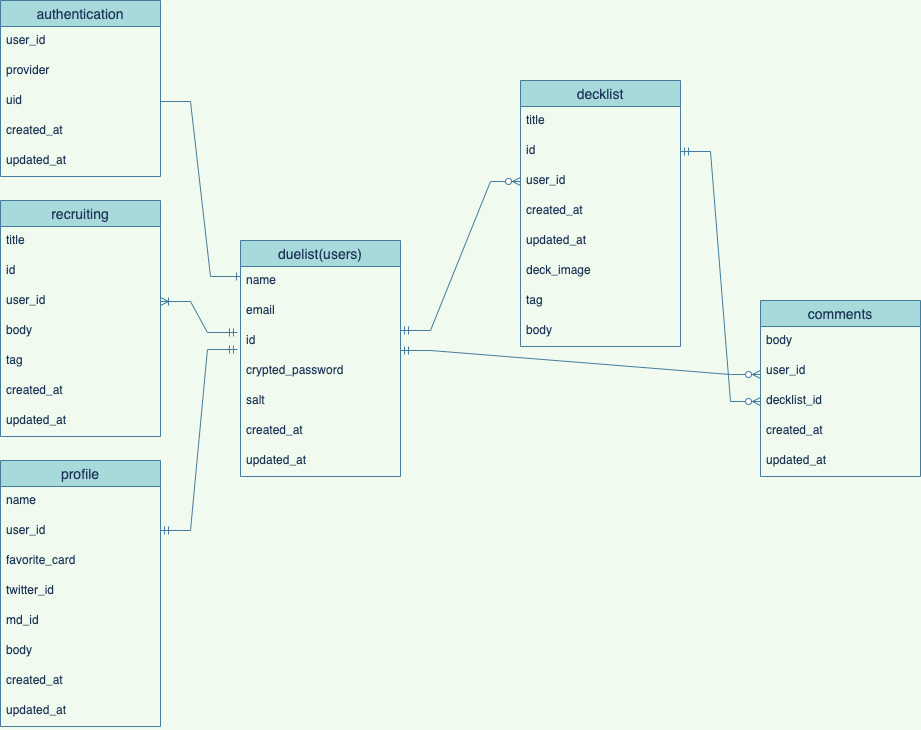
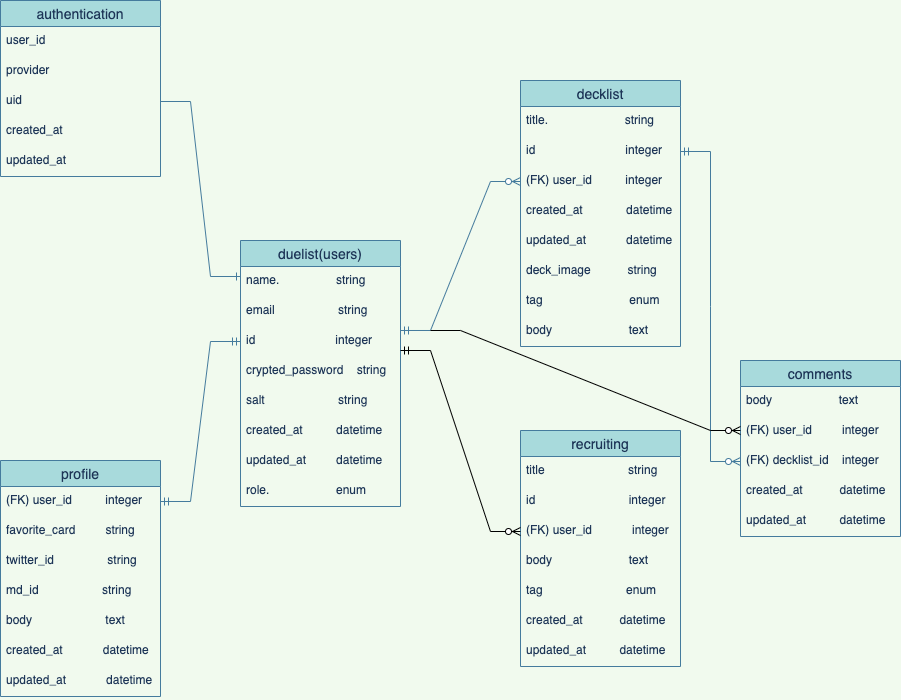
ER図の改修とREADMEの微修正

diff --git a/README.md b/README.md
@@ -34,10 +34,9 @@
 単純に遊戯王が好きなので、少しでも貢献できればと思ったのが一番です
 
 スケジュール
-本当にこれで行こうか大分迷って先輩方のポートフォリオとかを巡ってまして、
 すでに当初の予定より遅くはなっているのですが
-早ければ8/20中にメイン機能実装を開始して9/12までにベータ版を投稿
-９月の末にはリリースを予定しています
+10/15までにベータ版を投稿
+10月の末にはリリースを予定しています
 
 
 画面遷移図　figma url [https://www.figma.com/file/Bfm1uxD2SQCaoxG04UxYWG/%E3%83%9D%E3%83%BC%E3%83%88%E3%83%95%E3%82%A9%E3%83%AA%E3%82%AA%E9%81%B7%E7%A7%BB%E5%9B%B3%E6%8F%90%E5%87%BA%E7%94%A8?node-id=3%3A3]
